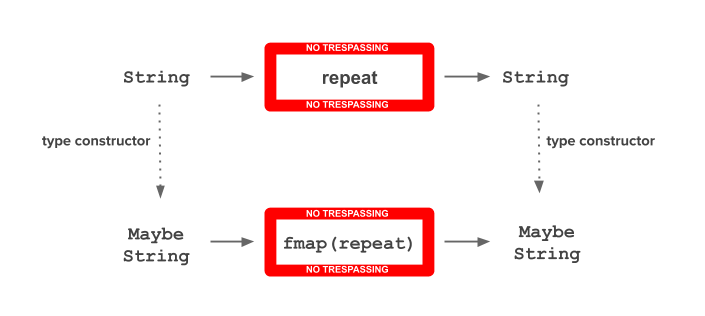
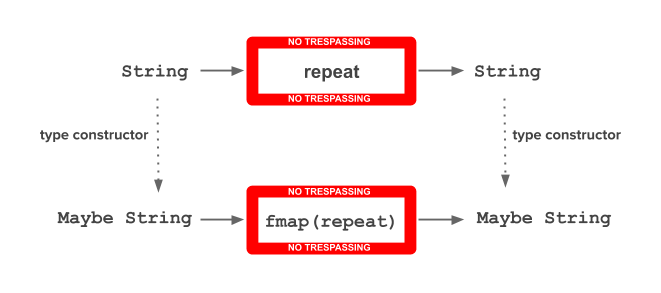
Functor composition

diff --git a/_posts/2019-08-05-functional-programming-sparks-joy.md b/_posts/2019-08-05-functional-programming-sparks-joy.md
@@ -237,7 +237,7 @@ Functions can be composed into a new one.
 
 When following the definition of composing two functions, the functions appear from right to left because the output of the first function is the input of the following one.
 
-![](/img/cards/posts/functional-programming-sparks-joy/function-composition.png)
+![](/img/cards/posts/functional-programming-sparks-joy/function_composition.png)
 
 For example, the `sumOfSquares` function:
 
@@ -1079,6 +1079,25 @@ logShow (repeat `map` (Just " bla "))
 
 logShow (repeat <$> (Just " bla "))
 -- (Just " bla  bla ")
+```
+
+### Functor composition
+
+So far I've included examples of `Array` functor and `Maybe` functor separately.
+
+What if there are more than one functor?
+
+What if we want to apply the `repeat` function into a `Maybe (Array String)`?
+
+![](/img/cards/posts/functional-programming-sparks-joy/functor_composition.png)
+
+Firstly, we use the mapping function of `Array` and then, the mapping function of `Maybe` over the result.
+
+In other words, the mapping functions are composed (operator `>>>`):
+
+```
+logShow ((map >>> map) repeat (Just [" bla ", " ha "]))
+-- (Just [" bla  bla "," ha  ha "])
 ```
 
 **To be continued...**
